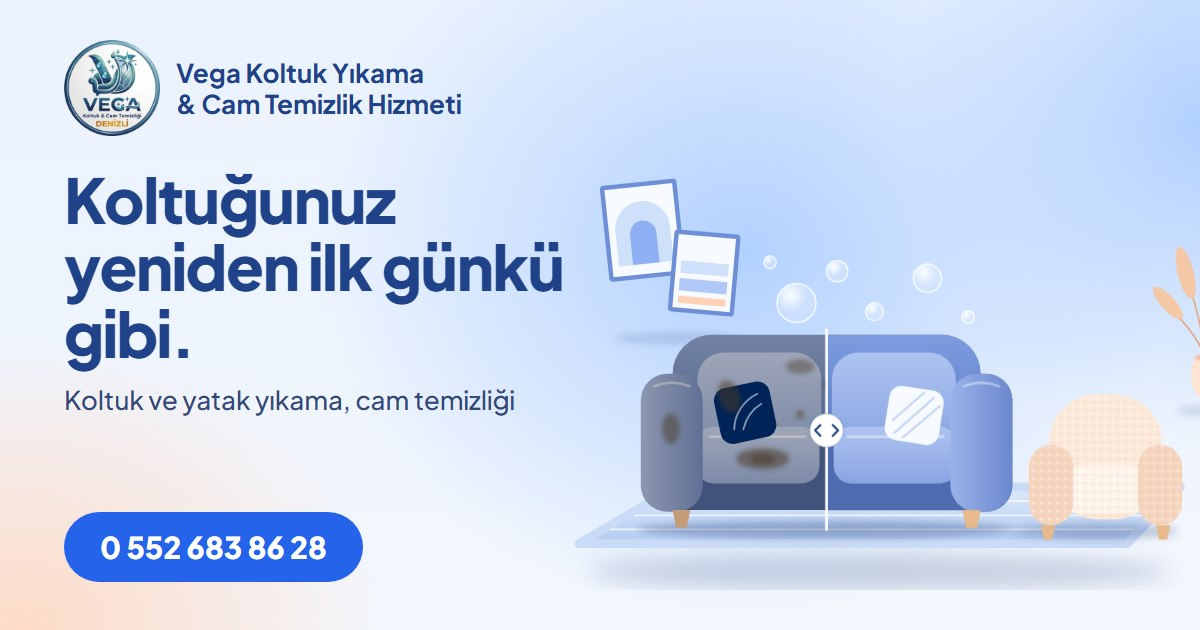
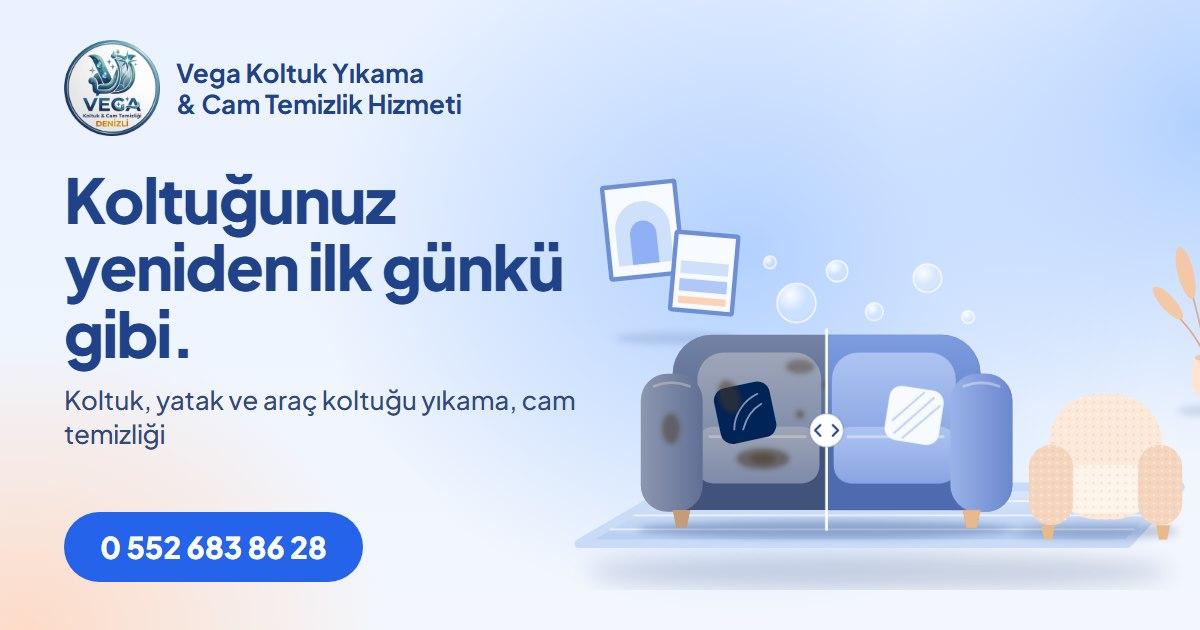
Add car seat washing to the services
Fourth service card with its own WhatsApp price button, updated headings,
descriptions, FAQ, keywords, structured data and the share image. Service
cards are four columns on desktop and two on tablets.

Changed region(s): [[0.0617, 0.6032, 0.4933, 0.7238]]

diff --git a/index.html b/index.html
@@ -4,8 +4,8 @@
   <meta charset="utf-8">
   <meta name="viewport" content="width=device-width, initial-scale=1">
   <title>Denizli Koltuk Yıkama ve Cam Temizliği | Vega Koltuk Yıkama</title>
-  <meta name="description" content="Vega Koltuk Yıkama &amp; Cam Temizlik Hizmeti: Denizli'de buharlı koltuk yıkama, yatak yıkama ve cam temizliği. Fiyat ve randevu için arayın: 0 552 683 86 28.">
-  <meta name="keywords" content="denizli koltuk yıkama, denizli yatak yıkama, denizli cam temizliği, buharlı koltuk yıkama, koltuk yıkama fiyatları, merkezefendi koltuk yıkama, vega koltuk yıkama">
+  <meta name="description" content="Vega Koltuk Yıkama &amp; Cam Temizlik Hizmeti: Denizli'de koltuk, yatak ve araç koltuğu yıkama, cam temizliği. Fiyat için arayın: 0 552 683 86 28.">
+  <meta name="keywords" content="denizli koltuk yıkama, denizli yatak yıkama, denizli araç koltuğu yıkama, denizli cam temizliği, buharlı koltuk yıkama, koltuk yıkama fiyatları, merkezefendi koltuk yıkama, vega koltuk yıkama">
   <meta name="theme-color" content="#EAF2FF">
   <meta name="google-site-verification" content="Za-Cm8VdeQiFkDakfYM--kZ4IpCagzPJeDlUq3a1BWY" />
   <link rel="canonical" href="https://denizlikoltukyikamafiyatlari.com/">
@@ -15,7 +15,7 @@
   <meta property="og:site_name" content="Vega Koltuk Yıkama &amp; Cam Temizlik Hizmeti">
   <meta property="og:url" content="https://denizlikoltukyikamafiyatlari.com/">
   <meta property="og:title" content="Denizli Koltuk Yıkama ve Cam Temizliği | Vega Koltuk Yıkama">
-  <meta property="og:description" content="Koltuk ve yatak yıkama, cam temizliği. Fiyat ve randevu için arayın ya da WhatsApp'tan yazın: 0 552 683 86 28.">
+  <meta property="og:description" content="Koltuk, yatak ve araç koltuğu yıkama, cam temizliği. Fiyat ve randevu için arayın ya da WhatsApp'tan yazın: 0 552 683 86 28.">
   <meta property="og:image" content="https://denizlikoltukyikamafiyatlari.com/assets/og-image.jpg">
   <meta property="og:image:width" content="1200">
   <meta property="og:image:height" content="630">
@@ -34,7 +34,7 @@
     "@id": "https://denizlikoltukyikamafiyatlari.com/#isletme",
     "name": "Vega Koltuk Yıkama & Cam Temizlik Hizmeti",
     "alternateName": "Vega Koltuk Yıkama",
-    "description": "Denizli'de buharlı koltuk yıkama, yatak yıkama ve cam temizliği.",
+    "description": "Denizli'de buharlı koltuk yıkama, yatak yıkama, araç koltuğu yıkama ve cam temizliği.",
     "url": "https://denizlikoltukyikamafiyatlari.com/",
     "telephone": "+905526838628",
     "image": "https://denizlikoltukyikamafiyatlari.com/assets/og-image.jpg",
@@ -51,6 +51,7 @@
     "makesOffer": [
       { "@type": "Offer", "itemOffered": { "@type": "Service", "name": "Koltuk yıkama", "areaServed": "Denizli" } },
       { "@type": "Offer", "itemOffered": { "@type": "Service", "name": "Yatak yıkama", "areaServed": "Denizli" } },
+      { "@type": "Offer", "itemOffered": { "@type": "Service", "name": "Araç koltuğu yıkama", "areaServed": "Denizli" } },
       { "@type": "Offer", "itemOffered": { "@type": "Service", "name": "Cam temizliği", "areaServed": "Denizli" } }
     ]
   }
@@ -79,7 +80,7 @@
     <section class="hero">
       <div class="hero-copy">
         <h1><span class="eyebrow">Denizli buharlı koltuk yıkama ve cam temizliği</span>Koltuğunuz yeniden ilk günkü gibi.</h1>
-        <p class="lead">Vega Koltuk Yıkama &amp; Cam Temizlik Hizmeti ile Denizli'de koltuk ve yatak yıkama, cam temizliği. Fiyat ve randevu için bir mesaj yeter.</p>
+        <p class="lead">Vega Koltuk Yıkama &amp; Cam Temizlik Hizmeti ile Denizli'de koltuk, yatak ve araç koltuğu yıkama, cam temizliği. Fiyat ve randevu için bir mesaj yeter.</p>
         <div class="cta-row">
           <a class="btn btn-blue" href="tel:+905526838628">
             <svg viewBox="0 0 24 24" aria-hidden="true"><path d="M5 4h4l2 5-2.500 1.500a11 11 0 0 0 5 5L15 13l5 2v4a2 2 0 0 1-2 2A16 16 0 0 1 3 6a2 2 0 0 1 2-2z"/></svg>
@@ -242,7 +243,7 @@
 
     <section class="services" id="hizmetler">
       <p class="label">Hizmetlerimiz</p>
-      <h2>Denizli'de koltuk ve yatak yıkama</h2>
+      <h2>Denizli'de koltuk, yatak ve araç koltuğu yıkama</h2>
       <p class="section-lead">Evdeki kumaş yüzeyler günlük kullanımda toz, ter, yiyecek ve içecek lekesi biriktirir. Fiyat için arayın ya da WhatsApp'tan yazın.</p>
       <ul class="service-grid">
         <li class="service">
@@ -262,6 +263,12 @@
           <h3>Cam temizliği</h3>
           <p>Denizli'de pencere ve cam yüzeylerin temizliği. Fiyat için arayın ya da WhatsApp'tan yazın.</p>
           <a class="btn btn-blue" href="https://wa.me/905526838628?text=Merhaba%2C%20cam%20temizli%C4%9Fi%20fiyat%C4%B1%20almak%20istiyorum.">Fiyat al</a>
+        </li>
+        <li class="service">
+          <span class="service-icon"><svg viewBox="0 0 24 24" aria-hidden="true"><path d="M19 17h2c.6 0 1-.4 1-1v-3c0-.9-.7-1.7-1.5-1.9C18.7 10.6 16 10 16 10s-1.300-1.400-2.200-2.300c-.5-.4-1.100-.7-1.800-.7H5c-.6 0-1.100.4-1.400.9l-1.400 2.900A3.700 3.700 0 0 0 2 12v4c0 .6.4 1 1 1h2"/><circle cx="7" cy="17" r="2"/><path d="M9 17h6"/><circle cx="17" cy="17" r="2"/></svg></span>
+          <h3>Araç koltuğu yıkama</h3>
+          <p>Denizli'de araç koltuğu yıkama. Araç içindeki kumaş koltuklar kullanımda toz ve leke biriktirir. Fiyat için arayın ya da WhatsApp'tan yazın.</p>
+          <a class="btn btn-blue" href="https://wa.me/905526838628?text=Merhaba%2C%20ara%C3%A7%20koltu%C4%9Fu%20y%C4%B1kama%20fiyat%C4%B1%20almak%20istiyorum.">Fiyat al</a>
         </li>
       </ul>
     </section>
@@ -335,7 +342,7 @@
         </details>
         <details>
           <summary>Hangi hizmetleri veriyorsunuz?</summary>
-          <p>Koltuk yıkama, yatak yıkama ve cam temizliği hizmeti veriyoruz.</p>
+          <p>Koltuk yıkama, yatak yıkama, araç koltuğu yıkama ve cam temizliği hizmeti veriyoruz.</p>
         </details>
         <details>
           <summary>Hangi bölgelere hizmet veriyorsunuz?</summary>

diff --git a/style.css b/style.css
@@ -237,8 +237,8 @@ a { color: inherit; }
   margin: 44px 0 0;
   padding: 0;
   display: grid;
-  grid-template-columns: repeat(3, minmax(0, 1fr));
-  gap: 24px;
+  grid-template-columns: repeat(4, minmax(0, 1fr));
+  gap: 20px;
   text-align: left;
 }
 .service {
@@ -246,7 +246,7 @@ a { color: inherit; }
   flex-direction: column;
   align-items: flex-start;
   gap: 12px;
-  padding: 32px 28px 28px;
+  padding: 30px 24px 26px;
   border-radius: 30px;
   background: #fff;
   border: 1px solid rgba(213, 229, 238, .9);
@@ -263,7 +263,7 @@ a { color: inherit; }
   color: var(--blue);
 }
 .service-icon svg { width: 42px; height: 30px; fill: none; stroke: currentColor; stroke-width: 1.8; stroke-linecap: round; stroke-linejoin: round; }
-.service h3 { margin: 0; font-size: 1.4rem; font-weight: 800; line-height: 1.2; letter-spacing: -.01em; color: var(--navy); }
+.service h3 { margin: 0; font-size: 1.3rem; font-weight: 800; line-height: 1.2; letter-spacing: -.01em; color: var(--navy); }
 .service p { margin: 0 0 8px; color: var(--text); }
 .service .btn { margin-top: auto; }
 
@@ -502,6 +502,7 @@ html.lb-open { overflow: hidden; }
 
 @media (max-width: 1080px) {
   .nav-phone span { display: none; }
+  .service-grid { grid-template-columns: repeat(2, minmax(0, 1fr)); }
   .hero { grid-template-columns: minmax(0, 1fr); }
   .hero-copy { max-width: 40rem; }
   .quote-card { grid-template-columns: minmax(0, 1fr); }
